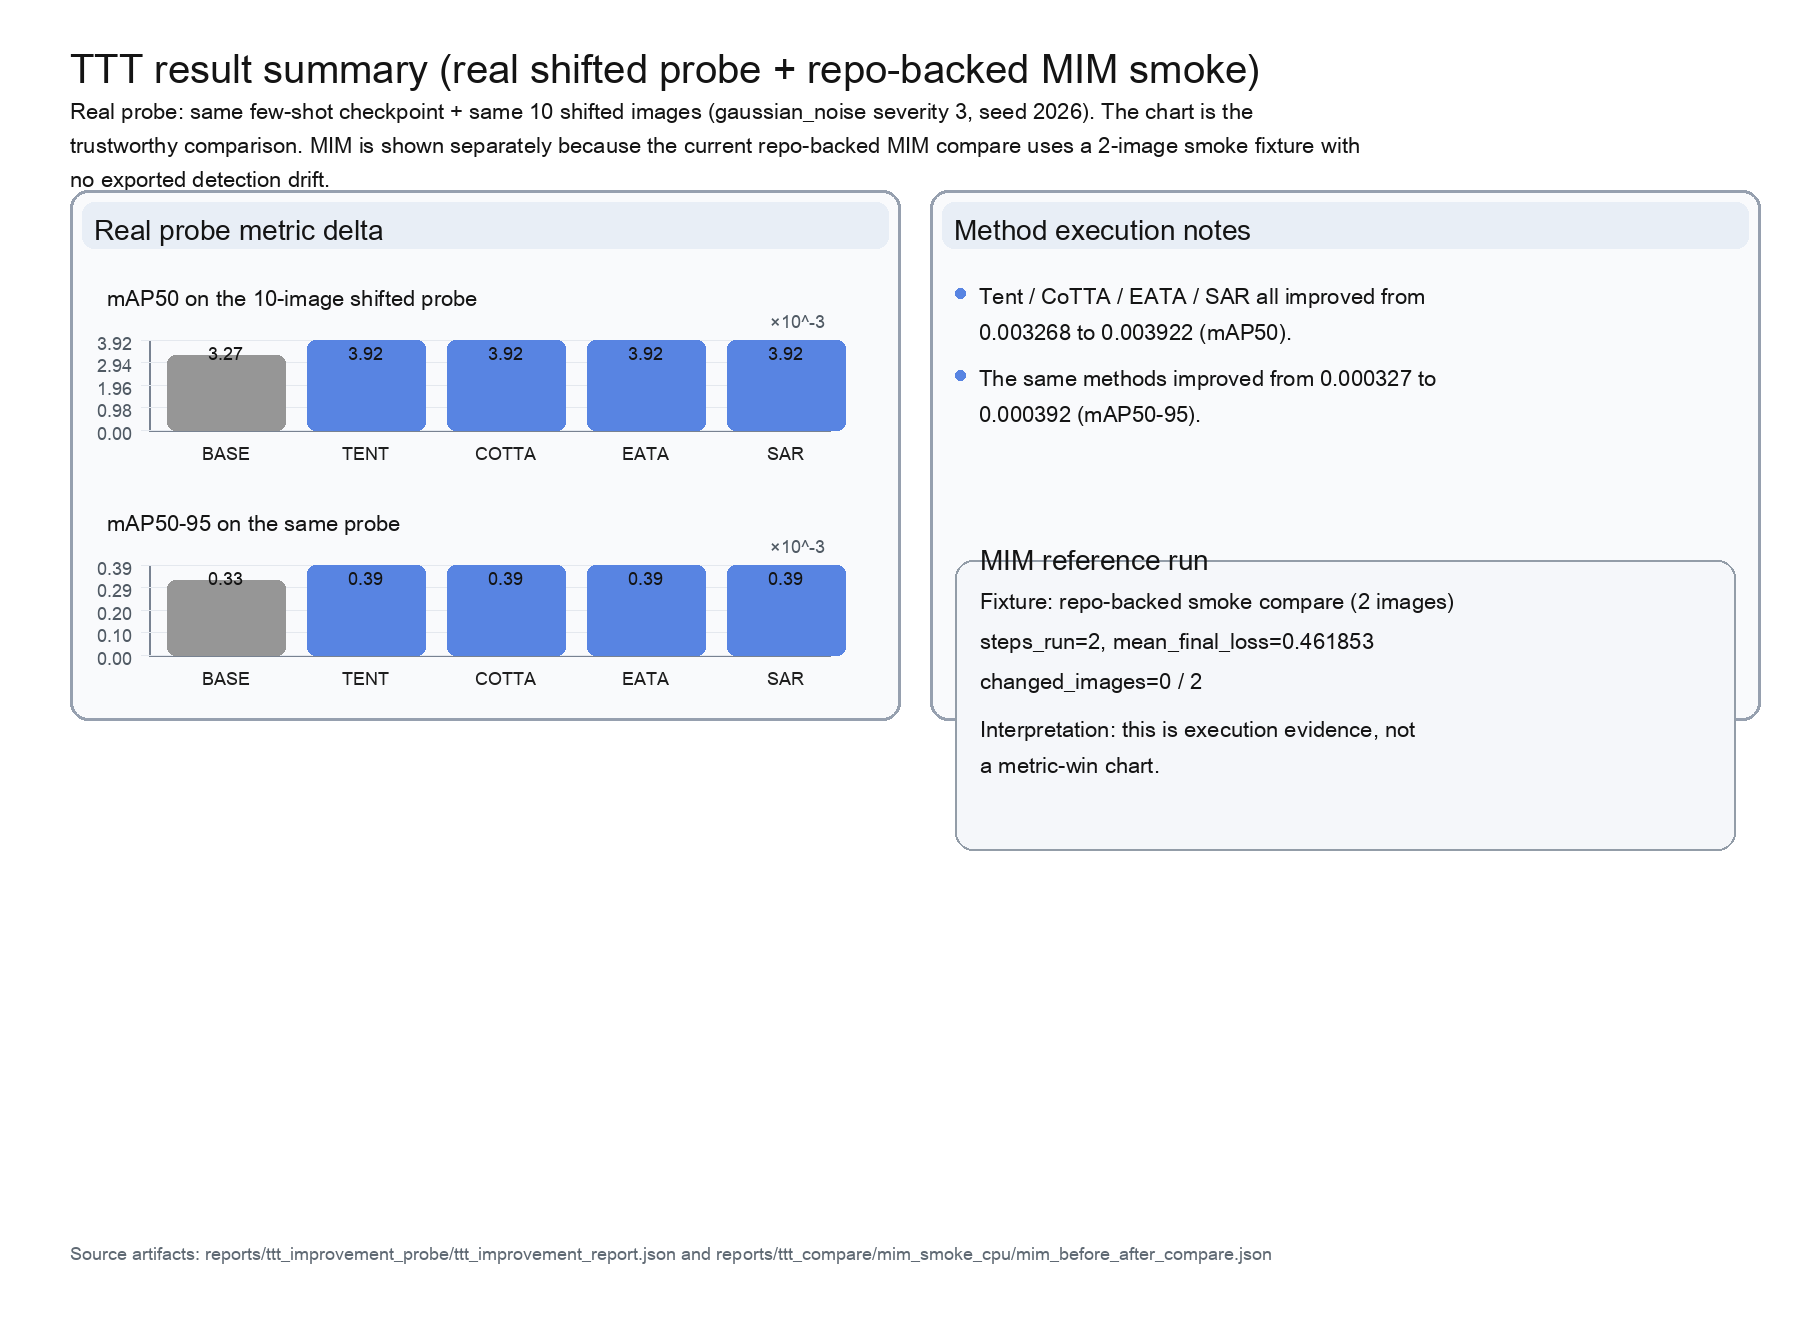
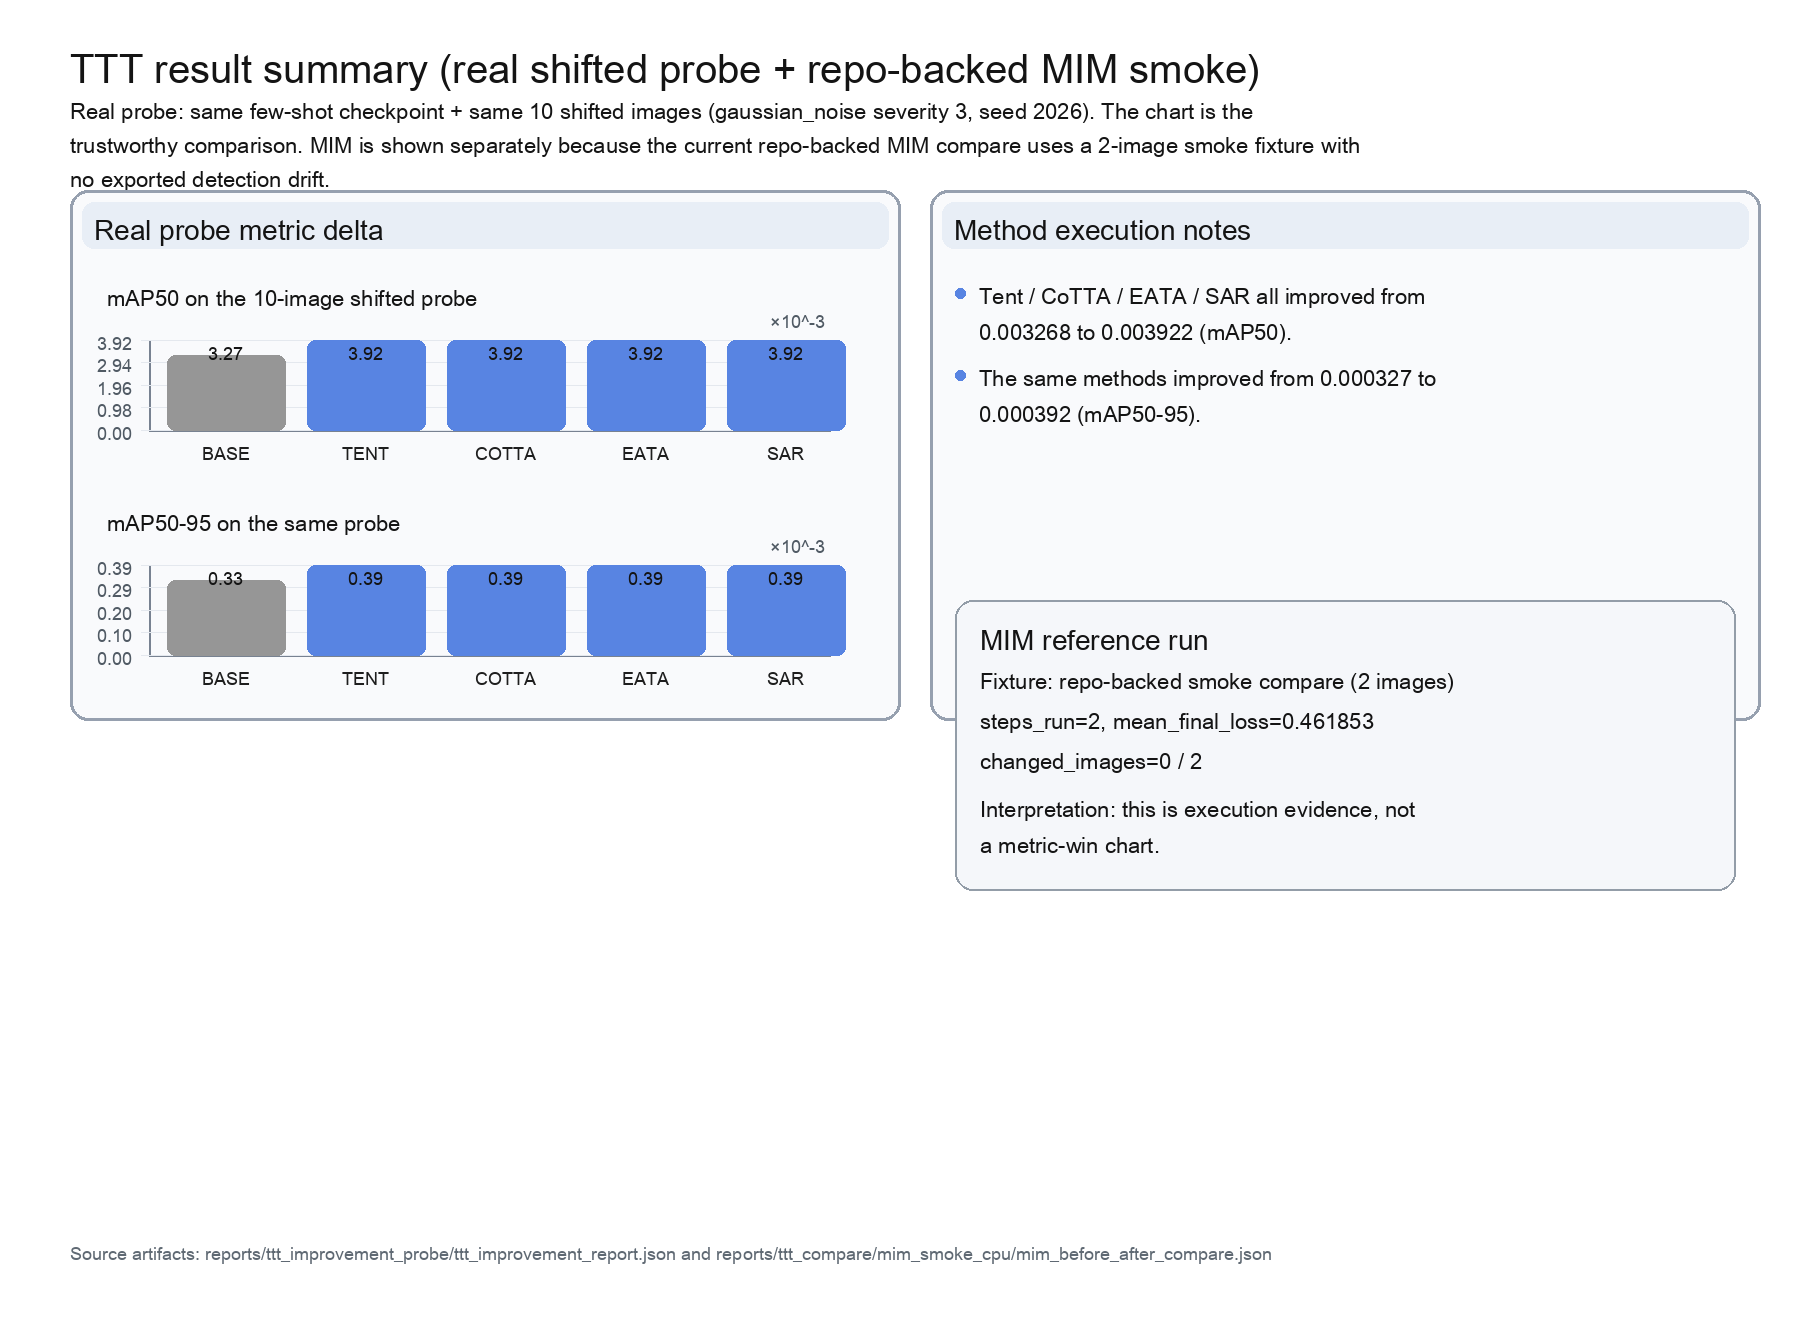
Adjust MIM reference box layout

Changed region(s): [[0.5289, 0.4038, 0.8089, 0.6523]]

diff --git a/tools/render_ttt_manual_figures.py b/tools/render_ttt_manual_figures.py
@@ -188,15 +188,15 @@ def _draw_summary_figure(source: dict[str, Any], out_path: Path) -> None:
         y = _draw_wrapped(draw, (x + 24, y), bullet, font=FONT_22, width=48, line_gap=8) + 10
 
     mim = source["metrics"]["mim"]
-    card = (955, 560, 1735, 850)
+    card = (955, 600, 1735, 890)
     draw.rounded_rectangle(card, radius=18, outline=(147, 157, 168), width=2, fill=(245, 247, 250))
-    _text(draw, (980, 540), "MIM reference run", font=FONT_28)
+    _text(draw, (980, 620), "MIM reference run", font=FONT_28)
     mim_lines = [
         f"Fixture: repo-backed smoke compare ({mim['images']} images)",
         f"steps_run={mim['steps_run']}, mean_final_loss={mim['mean_final_loss']:.6f}",
         f"changed_images={mim['changed_images']} / {mim['images']}",
     ]
-    y = 585
+    y = 665
     for line in mim_lines:
         y = _draw_wrapped(draw, (980, y), line, font=FONT_22, width=48, line_gap=8) + 4
     _draw_wrapped(
